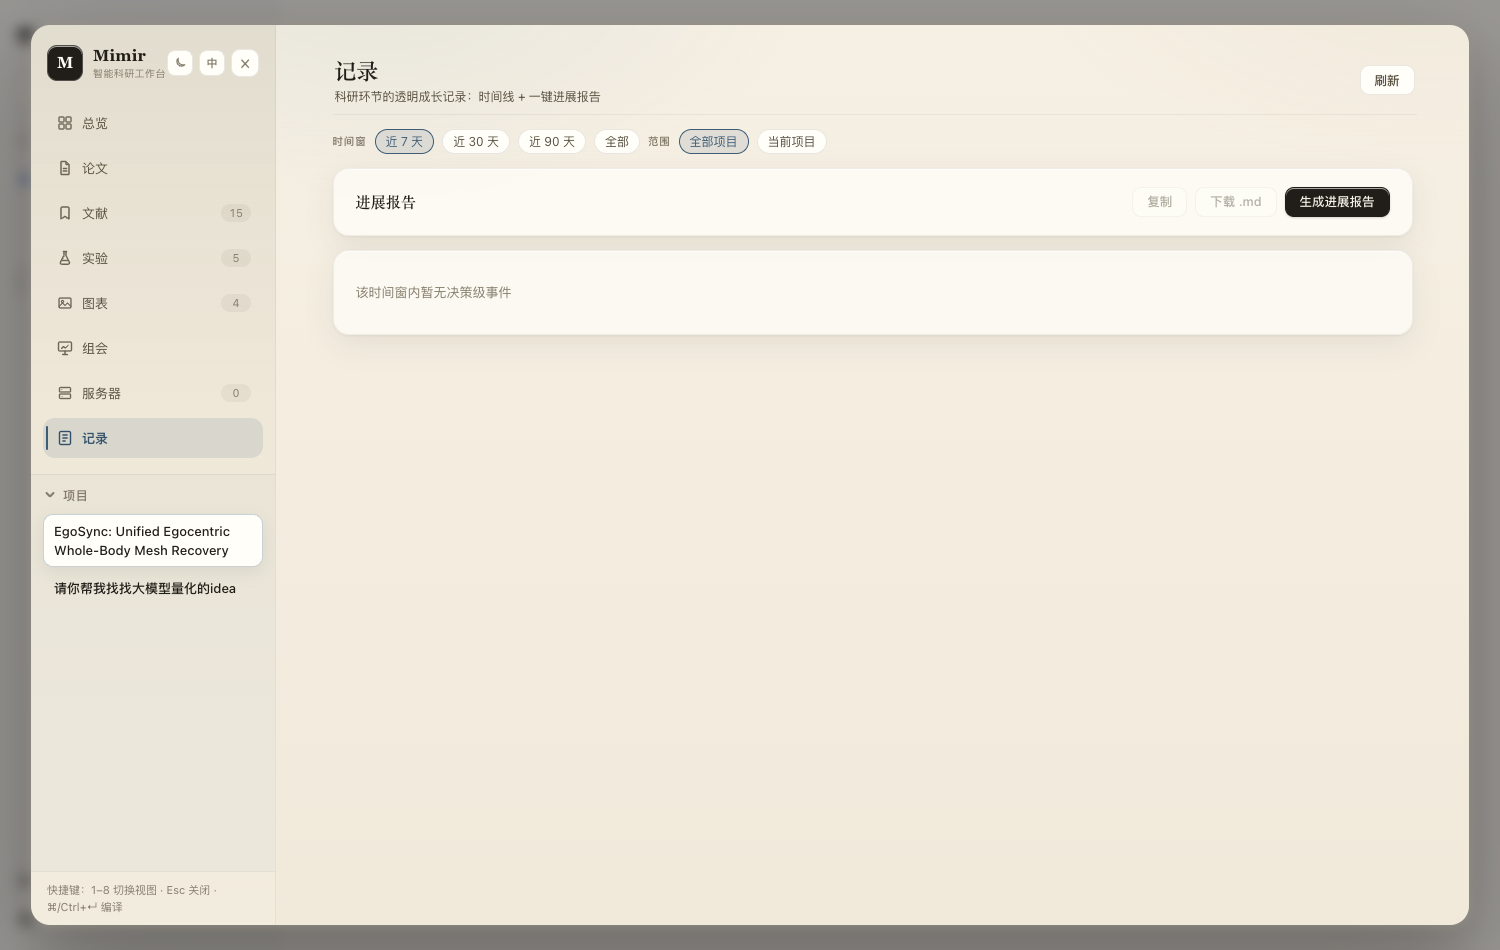
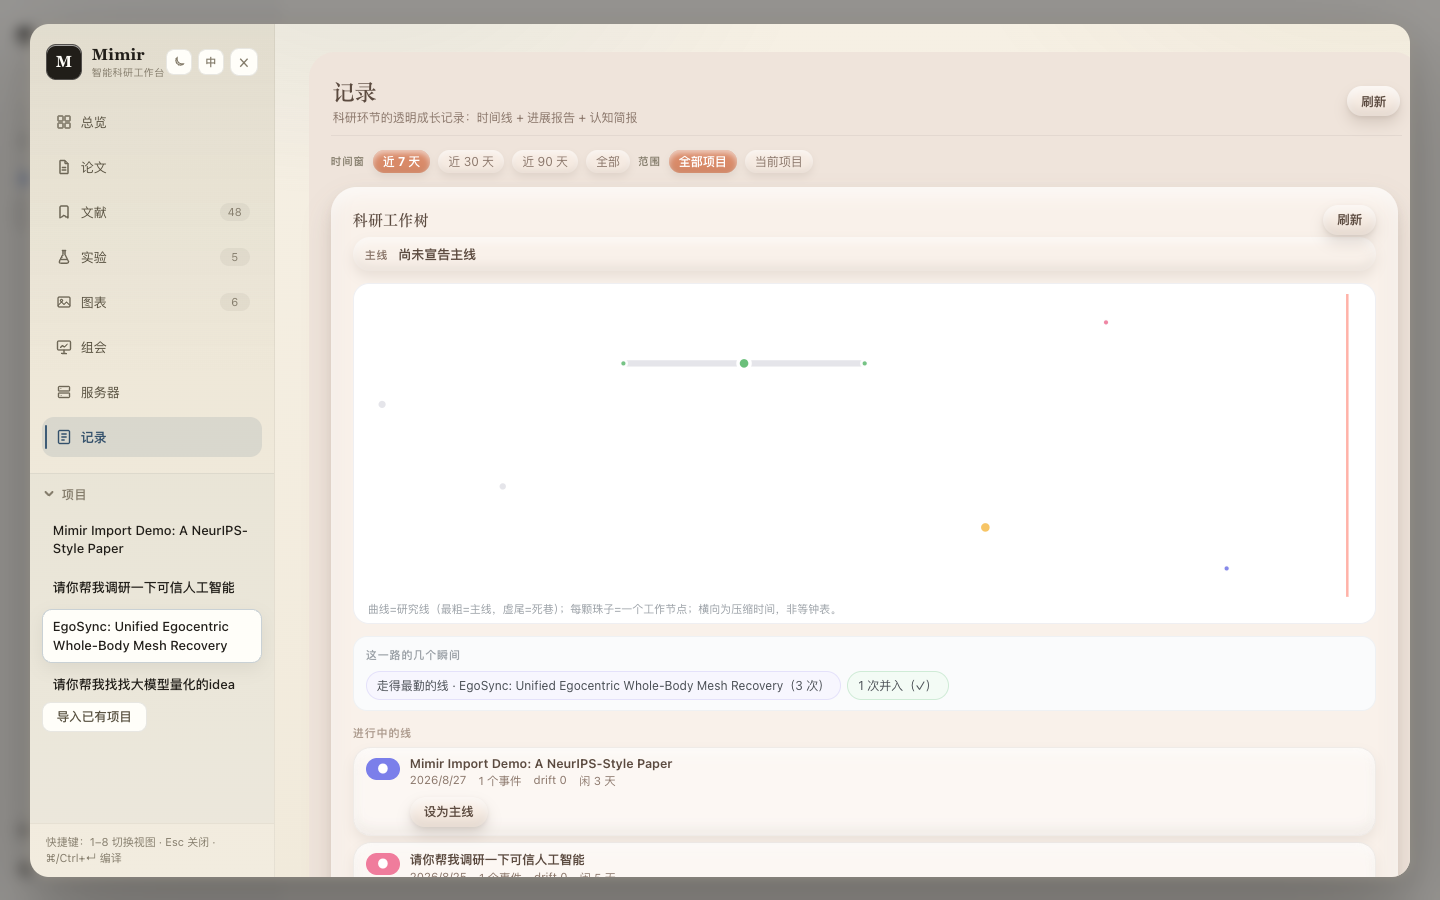
docs+website: 0.16.0 sync — new ledger worktree screenshots, ledger card copy, 928 tests, pin 0.16.0

diff --git a/website/index.html b/website/index.html
@@ -495,7 +495,7 @@ footer a { color: var(--muted); }
         <button class="term-copy">复制</button>
       </div>
     </div>
-    <p class="hero-stats rise" style="animation-delay:.46s"><b>8</b> 个视图 · <b>670</b> 项自动化测试 · MIT 开源</p>
+    <p class="hero-stats rise" style="animation-delay:.46s"><b>8</b> 个视图 · <b>928</b> 项自动化测试 · MIT 开源</p>
     <div class="hero-shot rise" style="animation-delay:.55s">
       <img src="assets/tab-overview.png" alt="Mimir 总览：项目管线、统计与最近动态" loading="lazy">
     </div>
@@ -563,7 +563,7 @@ footer a { color: var(--muted); }
         <div class="feat-icon"><svg viewBox="0 0 24 24" fill="none" stroke="currentColor" stroke-width="1.8" stroke-linecap="round" stroke-linejoin="round"><path d="M12 8v4l3 3"/><circle cx="12" cy="12" r="9"/></svg></div>
         <h3>记录与进展报告</h3>
         <div class="feat-en">LEDGER &amp; REPORTS</div>
-        <p>每个科研动作自动记账，成长时间线全程可追溯，一键生成周期进展报告。</p>
+        <p>想法演化自动收进 worktree，六视角摘要胶囊读懂你的进度，一键生成周期进展报告。</p>
       </div>
     </div>
   </div>
@@ -582,7 +582,7 @@ footer a { color: var(--muted); }
       <figure class="shot reveal" tabindex="0"><img src="assets/tab-figures.png" alt="图表视图" loading="lazy"><figcaption><span class="plate">PLATE 04</span>图表：AI 自动归纳命名，一键插入论文</figcaption></figure>
       <figure class="shot reveal" tabindex="0"><img src="assets/tab-meetings.png" alt="组会视图" loading="lazy"><figcaption><span class="plate">PLATE 05</span>组会：文献 + 进展一键生成汇报 PPT</figcaption></figure>
       <figure class="shot reveal" tabindex="0"><img src="assets/tab-servers.png" alt="服务器视图" loading="lazy"><figcaption><span class="plate">PLATE 06</span>服务器：GPU 任务提交与状态轮询</figcaption></figure>
-      <figure class="shot reveal" tabindex="0"><img src="assets/tab-ledger.png" alt="记录视图" loading="lazy"><figcaption><span class="plate">PLATE 07</span>记录：成长记录与进展报告，全程可追溯</figcaption></figure>
+      <figure class="shot reveal" tabindex="0"><img src="assets/tab-ledger.png" alt="记录视图" loading="lazy"><figcaption><span class="plate">PLATE 07</span>记录：想法演化 worktree + 六视角摘要 + 进展报告</figcaption></figure>
       <figure class="shot reveal" tabindex="0"><img src="assets/tab-overview.png" alt="总览视图" loading="lazy"><figcaption><span class="plate">PLATE 08</span>总览：项目管线进度与工件清单一览</figcaption></figure>
     </div>
   </div>
@@ -639,7 +639,7 @@ footer a { color: var(--muted); }
       可选能力：论文编译装 <code>brew install tectonic</code> · Web 搜索跑 <code>bash scripts/setup-web-search.sh</code>（免 Docker 一键 SearXNG）· Zotero 在配置里填 API Key 即可
     </p>
     <p class="optional">
-      装到了旧版本？pnpm 会延迟加载刚发布的新版，用精确版本号重装：<code>dsh plugin --profile web remove dsh-mimir</code> 后 <code>dsh plugin --profile web add dsh-mimir@0.15.1</code>
+      装到了旧版本？pnpm 会延迟加载刚发布的新版，用精确版本号重装：<code>dsh plugin --profile web remove dsh-mimir</code> 后 <code>dsh plugin --profile web add dsh-mimir@0.16.0</code>
     </p>
   </div>
 </section>
